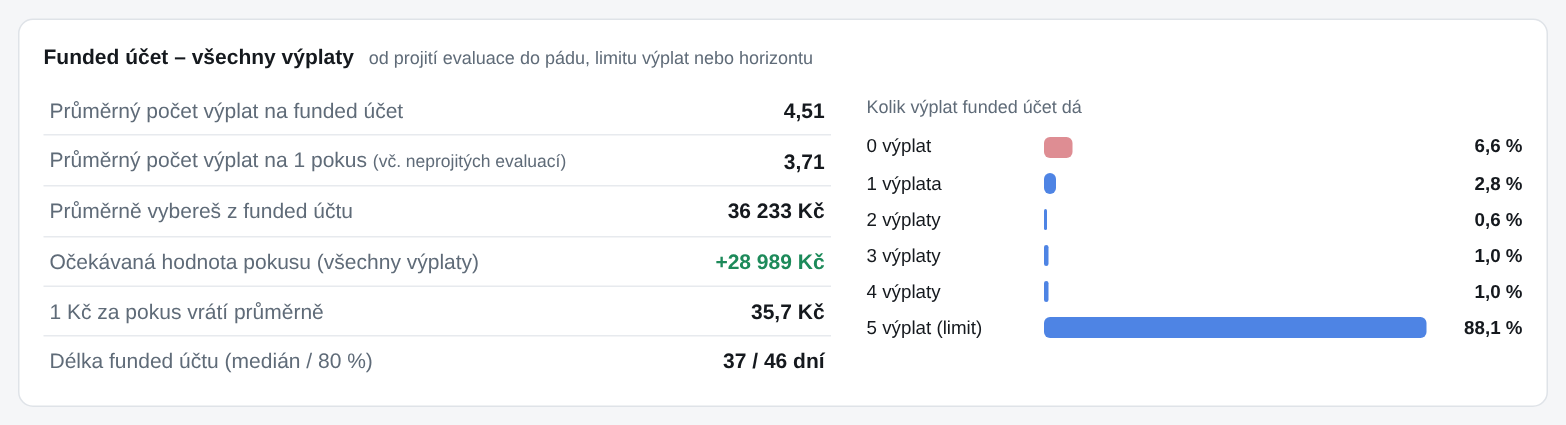
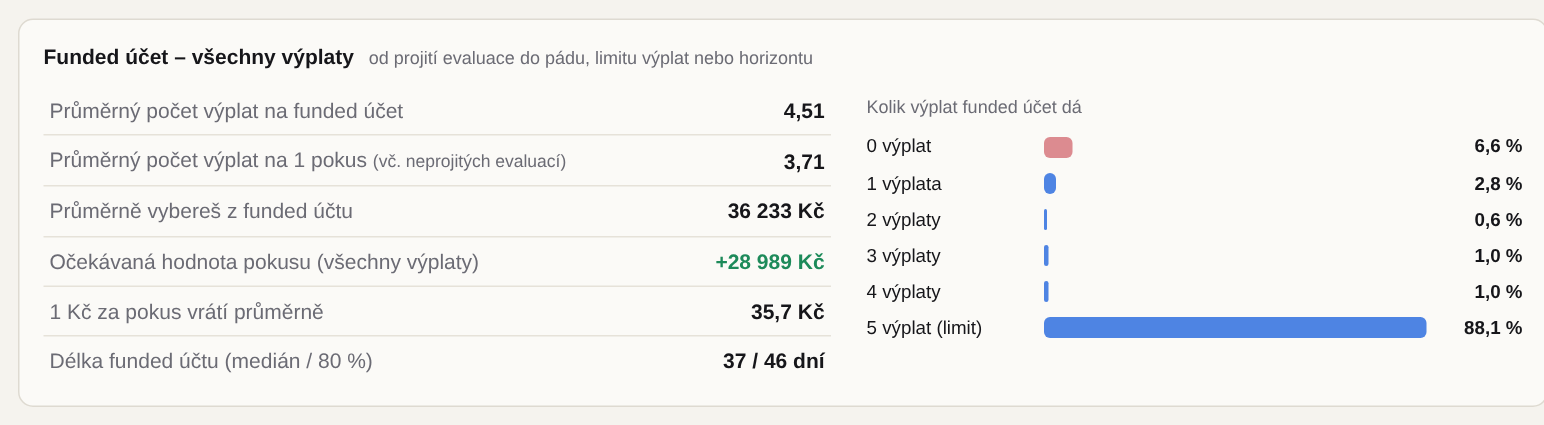
Modrý akcent s papírovým / grafitovým pozadím

diff --git a/index.html b/index.html
@@ -10,12 +10,12 @@
 <style>
   :root {
     color-scheme: light dark;
-    --bg: #f5f6f8;
-    --panel: #ffffff;
-    --panel-2: #f0f2f5;
-    --border: #dfe3e8;
-    --text: #15191e;
-    --muted: #5f6b78;
+    --bg: #f5f3ee;
+    --panel: #fbfaf7;
+    --panel-2: #efece5;
+    --border: #dedad1;
+    --text: #16161a;
+    --muted: #6b6b74;
     --accent: #2f6fdf;
     --accent-soft: rgba(47, 111, 223, .12);
     --good: #1d8a5a;
@@ -23,17 +23,17 @@
     --warn-bg: #fff5dc;
     --warn-border: #f0c95a;
     --warn-text: #6b4c00;
-    --grid: #e7eaee;
+    --grid: #e6e2d9;
     --radius: 10px;
   }
   @media (prefers-color-scheme: dark) {
     :root:not([data-theme="light"]) {
-      --bg: #0f1216;
-      --panel: #171b21;
-      --panel-2: #1e232a;
-      --border: #2b323b;
-      --text: #e6e9ed;
-      --muted: #94a0ad;
+      --bg: #0e0e10;
+      --panel: #16161a;
+      --panel-2: #1d1d22;
+      --border: #2a2a30;
+      --text: #f5f3ee;
+      --muted: #8a8a93;
       --accent: #6b9cff;
       --accent-soft: rgba(107, 156, 255, .16);
       --good: #3fbf86;
@@ -41,16 +41,16 @@
       --warn-bg: #2d2511;
       --warn-border: #6b5520;
       --warn-text: #f1d58a;
-      --grid: #232930;
+      --grid: #222227;
     }
   }
   :root[data-theme="dark"] {
-    --bg: #0f1216;
-    --panel: #171b21;
-    --panel-2: #1e232a;
-    --border: #2b323b;
-    --text: #e6e9ed;
-    --muted: #94a0ad;
+    --bg: #0e0e10;
+    --panel: #16161a;
+    --panel-2: #1d1d22;
+    --border: #2a2a30;
+    --text: #f5f3ee;
+    --muted: #8a8a93;
     --accent: #6b9cff;
     --accent-soft: rgba(107, 156, 255, .16);
     --good: #3fbf86;
@@ -58,7 +58,7 @@
     --warn-bg: #2d2511;
     --warn-border: #6b5520;
     --warn-text: #f1d58a;
-    --grid: #232930;
+    --grid: #222227;
   }
   :root[data-theme="light"] { color-scheme: light; }
   :root[data-theme="dark"] { color-scheme: dark; }
